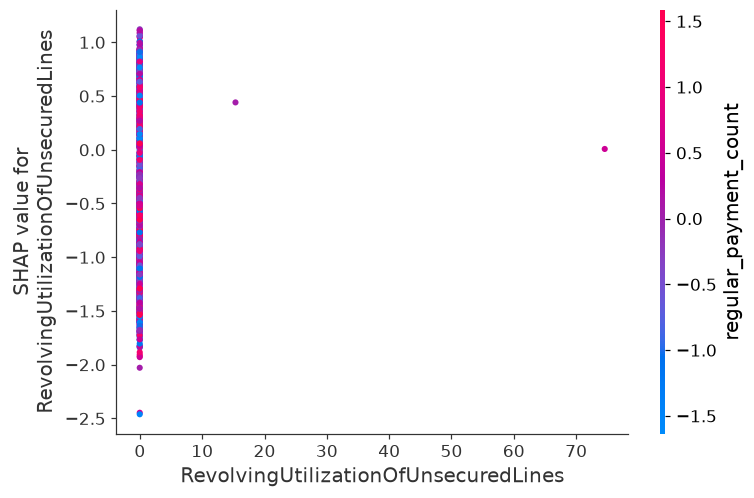
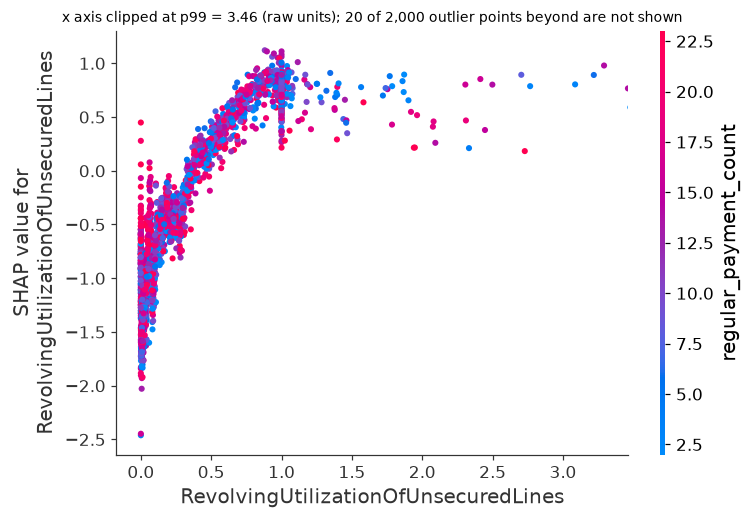
feat: Dependence Plot 축 절단(원 단위 99 백분위), 6.3절 서술 교체
- explainer.dependence_plot: display(원 단위) + clip_percentile 지원, 캡션에 절단 기준과 제외 점 수 표기
- axis_clip() 헬퍼 분리 + 테스트 2건 (총 171건 통과)
- config.explainer.dependence_axis_clip 으로 대상 피처·백분위 지정 (report 섹션도 함께 추가)
- 6.3절: '실패한 시각화' → 절단 이유 + 구간별 평균 SHAP(0~0.1 -1.096 … 1.0~3.46 +0.687),
  포화형 비선형 관계로 telecom 의 선형 관계와 대비. 10장 한계 항목도 갱신
- 재생성 결과 수치 산출물 md5 동일(워터폴 4종·CSV·JSON), 바뀐 것은 해당 그림 1개

Claude-Session: https://claude.ai/code/session_01Sdc75qNQkpXZWiENXN9pBf

diff --git a/src/explainer/explainer.py b/src/explainer/explainer.py
@@ -132,6 +132,13 @@ def base_value_scalar(explanation: Any) -> float:
     return float(np.ravel(base)[0])
 
 
+def axis_clip(values: pd.Series, percentile: float) -> tuple[float, int]:
+    """(백분위 상한, 상한을 넘어 그림에서 빠지는 점의 수)."""
+    column = pd.Series(values, dtype="float64")
+    upper = float(np.percentile(column, percentile))
+    return upper, int((column > upper).sum())
+
+
 class CreditExplainer:
     """챔피언 모델에 대한 SHAP 설명기."""
 
@@ -334,12 +341,37 @@ class CreditExplainer:
         plt.close()
         return path
 
-    def dependence_plot(self, feature: str, x: pd.DataFrame, path: Path) -> Path:
+    def dependence_plot(
+        self,
+        feature: str,
+        x: pd.DataFrame,
+        path: Path,
+        display: pd.DataFrame | None = None,
+        clip_percentile: float | None = None,
+    ) -> Path:
+        """SHAP Dependence Plot.
+
+        clip_percentile 이 주어지면 display(원 단위 값)로 그리고 x 축을 그 백분위에서 자른다.
+        GMSC 의 극단 이상치(RevolvingUtilization 최대 50,708)가 축을 늘려 정상 범위의
+        관계가 보이지 않기 때문이다. SHAP 값 자체는 x(모델 입력)로 계산한다.
+        """
         values, _ = self.explain(x)
+        shown = (display if display is not None else x)[self.feature_columns]
+        extra: dict[str, Any] = {}
+        caption = None
+        if clip_percentile is not None:
+            upper, excluded = axis_clip(shown[feature], clip_percentile)
+            extra["xmax"] = upper
+            caption = (
+                f"x axis clipped at p{clip_percentile:g} = {upper:.2f} (raw units); "
+                f"{excluded:,} of {len(shown):,} outlier points beyond are not shown"
+            )
         plt.figure()
         shap.dependence_plot(
-            feature, values, x[self.feature_columns], show=False, interaction_index="auto"
+            feature, values, shown, show=False, interaction_index="auto", **extra
         )
+        if caption:
+            plt.gcf().axes[0].set_title(caption, fontsize=9)
         plt.savefig(path, dpi=110, bbox_inches="tight")
         plt.close()
         return path

diff --git a/tests/test_explainer.py b/tests/test_explainer.py
@@ -13,6 +13,7 @@ from src.explainer.explainer import (
     CreditExplainer,
     _has_final_consonant,
     _subject_particle,
+    axis_clip,
     base_value_scalar,
     shap_values_2d,
 )
@@ -196,6 +197,23 @@ def test_sentinel_with_missing_flag_is_described_as_no_record(explainer, fitted,
 
     assert "기록이 없습니다" in target["explanation"]
     assert "-1회" not in target["explanation"]
+
+
+def test_axis_clip_excludes_points_beyond_percentile():
+    """극단 이상치 2개가 있어도 99 백분위 상한은 정상 범위에 머물고, 빠지는 점 수가 정확해야 한다."""
+    values = pd.Series(list(np.linspace(0.0, 1.0, 998)) + [5_000.0, 50_000.0])
+    upper, excluded = axis_clip(values, 99)
+    assert upper < 2.0
+    assert excluded == int((values > upper).sum()) == 10
+
+
+def test_dependence_plot_with_clip_writes_file(explainer, fitted, tmp_path):
+    _, cols, reference, data, _ = fitted
+    path = explainer.dependence_plot(
+        cols[0], data.head(200), tmp_path / "dep.png",
+        display=reference.head(200), clip_percentile=99,
+    )
+    assert path.exists() and path.stat().st_size > 0
 
 
 def test_rejection_reasons_respect_top_n(explainer, fitted):

diff --git a/src/explainer/run_explain.py b/src/explainer/run_explain.py
@@ -91,9 +91,13 @@ def main() -> None:
     importance = explainer.global_importance(sample)
     importance.to_csv(out / "global_importance.csv", index=False)
     paths.append(explainer.summary_plot(sample, out / "shap_summary.png"))
+    clips = ecfg.get("dependence_axis_clip") or {}
     for feature in ecfg["dependence_features"]:
+        clip = clips.get(feature)
         paths.append(explainer.dependence_plot(
-            feature, sample, out / f"shap_dependence_{feature}.png"
+            feature, sample, out / f"shap_dependence_{feature}.png",
+            display=test_raw.loc[sample.index] if clip is not None else None,
+            clip_percentile=clip,
         ))
 
     logger.info("전역 중요도 상위 %d개:", ecfg["summary_max_display"])

diff --git a/docs/report/07_xai.md b/docs/report/07_xai.md
@@ -141,27 +141,43 @@ p_default = 1 / (1 + exp(−f(x)))
 두 피처가 강하게 함께 움직인다는 뜻이며, ADR-001 v2 의 공유 잠재요인("성실한 사람은 통신비도
 공과금도 잘 낸다")이 그림에 그대로 드러난 것이다. 뚜렷한 상호작용은 보이지 않는다.
 
-### `RevolvingUtilization`: 그림이 대비 목적을 달성하지 못했다
+### `RevolvingUtilization`: 이상치 때문에 x 축을 잘라야 한다
 
-![RevolvingUtilization Dependence](../report_assets/shap_dependence_RevolvingUtilizationOfUnsecuredLines.png)
+![RevolvingUtilization Dependence (원 단위, x 축 99 백분위 절단)](../report_assets/shap_dependence_RevolvingUtilizationOfUnsecuredLines.png)
 
-이 그림은 **실패한 시각화**로 기록해 둔다. 점 거의 전부가 x = 0 근처의 세로 한 줄에 모여 있다.
+그림 각주: x 축은 **원 단위**이며 **99 백분위(3.46)에서 잘랐다.** 표본 2,000개 중 이를 넘는
+**이상치 20개는 그림에서 제외**했다(SHAP 계산에는 포함). 제외된 점의 SHAP 은 0.01 ~ 1.06 으로
+그림 오른쪽 평탄 구간과 같은 범위다.
 
-| 지표 | 값 |
+처음에는 이 피처도 telecom 과 같은 방식(표준화 값, 전 범위)으로 그렸는데, 점 거의 전부가 x = 0 근처
+세로 한 줄에 몰려 관계가 보이지 않았다.
+
+| 지표 (표준화 축으로 그렸을 때) | 값 |
 |---|---:|
 | 표준화 값 1~99 백분위 | −0.020 ~ −0.011 |
 | \|z\| > 1 인 점 | 2,000개 중 **2개** (최대 z = 74.6) |
 | 원 단위 중앙값 / 99 백분위 / 최대 | 0.144 / 3.46 / **29,110** |
-| 피처값–SHAP 순위상관 (Spearman) | +0.897 |
-| SHAP 범위 | −2.46 ~ +1.12 |
 
-GMSC 원본의 극단 이상치(149,999행 기준 소진율 최대 50,708, z = 203.0)가 표준화 축을 늘려놓아, 정상 범위의 변화가
-화면에서 보이지 않는다. 수치로는 소진율이 높을수록 SHAP 이 커지는 단조 관계가 분명하다
-(Spearman +0.897). **x 축을 99 백분위에서 자르거나 순위 척도로 그렸어야 한다.**
-F1~F5 산출물을 동결했기 때문에 그림은 교체하지 않고 이 한계를 적는다.
+GMSC 원본의 극단 이상치(149,999행 기준 소진율 최대 50,708, z = 203.0, 3.4절)가 표준화 축을 늘려,
+표본의 98% 가 폭 0.009 의 구간에 갇힌 것이다. 원 단위로 바꾸고 99 백분위에서 자르자 관계가 드러났다.
 
-두 피처의 대비는 그림 대신 수치로 읽힌다. 대안 피처는 시뮬레이터가 정규분포 기반으로 생성해
-**매끄러운 선형 관계**를 갖고, 전통 피처는 실제 금융 데이터의 **두꺼운 꼬리**를 그대로 안고 있다.
+| 소진율 구간 | n | 평균 SHAP |
+|---|---:|---:|
+| 0 ~ 0.1 | 892 | −1.096 |
+| 0.1 ~ 0.5 | 551 | −0.314 |
+| 0.5 ~ 1.0 | 443 | +0.608 |
+| 1.0 ~ 3.46 | 94 | +0.687 |
+| 3.46 초과 (그림에서 제외) | 20 | 0.01 ~ 1.06 (범위) |
+
+각주: test 2,000행 표본, 구간 상한 포함. 피처값–SHAP 순위상관(Spearman) +0.897, SHAP 범위 −2.46 ~ +1.12.
+
+**한도의 100% 까지는 가파르게 오르다가 그 뒤로는 평탄하다.** 소진율 10% 이하인 고객은 부도 확률 기여가
+크게 음수(−1.10)이고, 한도를 거의 다 쓰면 양수로 돌아선다. 한도를 넘겨 쓴 뒤로는 더 오르지 않는다.
+telecom 의 직선과 뚜렷이 다른 **포화형 비선형 관계**다. 색(`regular_payment_count`)은 세로로 갈리지 않아
+뚜렷한 상호작용은 보이지 않는다.
+
+두 그림의 대비는 이렇게 정리된다. 대안 피처는 시뮬레이터가 정규분포 기반으로 생성해 **매끄러운 선형
+관계**를 갖고, 전통 피처는 실제 금융 데이터의 **두꺼운 꼬리와 포화**를 그대로 안고 있다.
 
 ### 역설적인 부호: 소득이 높으면 불리하다?
 

diff --git a/PROGRESS.md b/PROGRESS.md
@@ -160,6 +160,10 @@
 - **리포트 11장** 작성(교차검증 19건 일치): 11.1 은 `fairness_narrative.md` §5 원문 그대로,
   세 질문(성능·설명가능성·공정성)별 발견, 실무 시사점 5개, 향후 과제 7개.
 - **교차검증 합계 176건 전부 일치** (6장 94 / 9장 27 / 10장 36 / 11장 19).
+- **Dependence Plot 재생성**: `RevolvingUtilization` 을 원 단위 + 99 백분위 절단으로 다시 그렸다
+  (`config.explainer.dependence_axis_clip`). 표본 2,000개 중 이상치 20개 제외, 캡션에 명시.
+  6.3절을 "실패한 시각화" → "절단이 필요한 이유 + 구간별 평균 SHAP" 서술로 교체.
+  재생성 후 JSON·CSV·워터폴 4종 md5 동일(Summary·telecom 은 렌더링 난수라 기존 파일 복원). pytest 171건.
 
 **2026-09-10 (16세션) — 리포트 7장·8장·5장 작성**
 

diff --git a/docs/report/11_limitations.md b/docs/report/11_limitations.md
@@ -173,7 +173,7 @@ in-processing 기법(ExponentiatedGradient 등)은 11장 향후 과제로 남긴
 | 한계 | 위치 |
 |---|---|
 | PSI 는 무작위 층화 분할이라 분포 이동 검출 조건으로는 관대하다 | 5.2절 |
-| `RevolvingUtilization` Dependence Plot 이 이상치로 축이 늘어나 정보를 보여주지 못한다 | 6.3절 |
+| 극단 이상치 때문에 `RevolvingUtilization` Dependence Plot 은 x 축을 99 백분위에서 잘라 그렸다(이상치 20개 제외) | 6.3절 |
 | 설명 소거로 소득·연령의 SHAP 부호가 역설적이다 (시뮬레이터 구조의 산물) | 6.3절 |
 | 방향 일치 검증은 부호 모순만 잡으며, 참조 평균과 SHAP 기준값이 다르다 | 6.5절 |
 | 반사실 설명("무엇을 바꾸면 승인되는가")은 수동 분석이며 API 로 구현하지 않았다 | 6.4절 |
